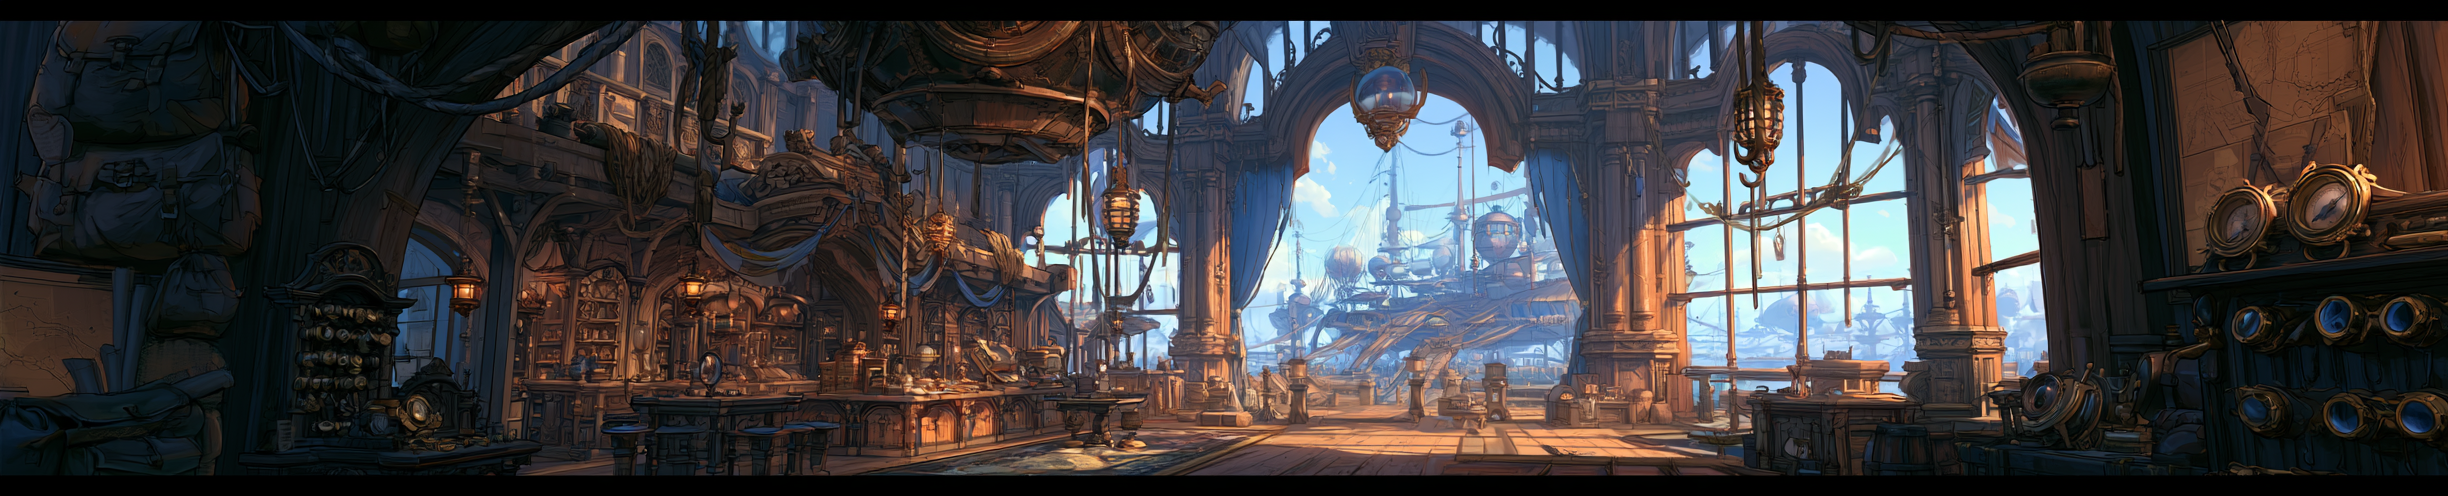
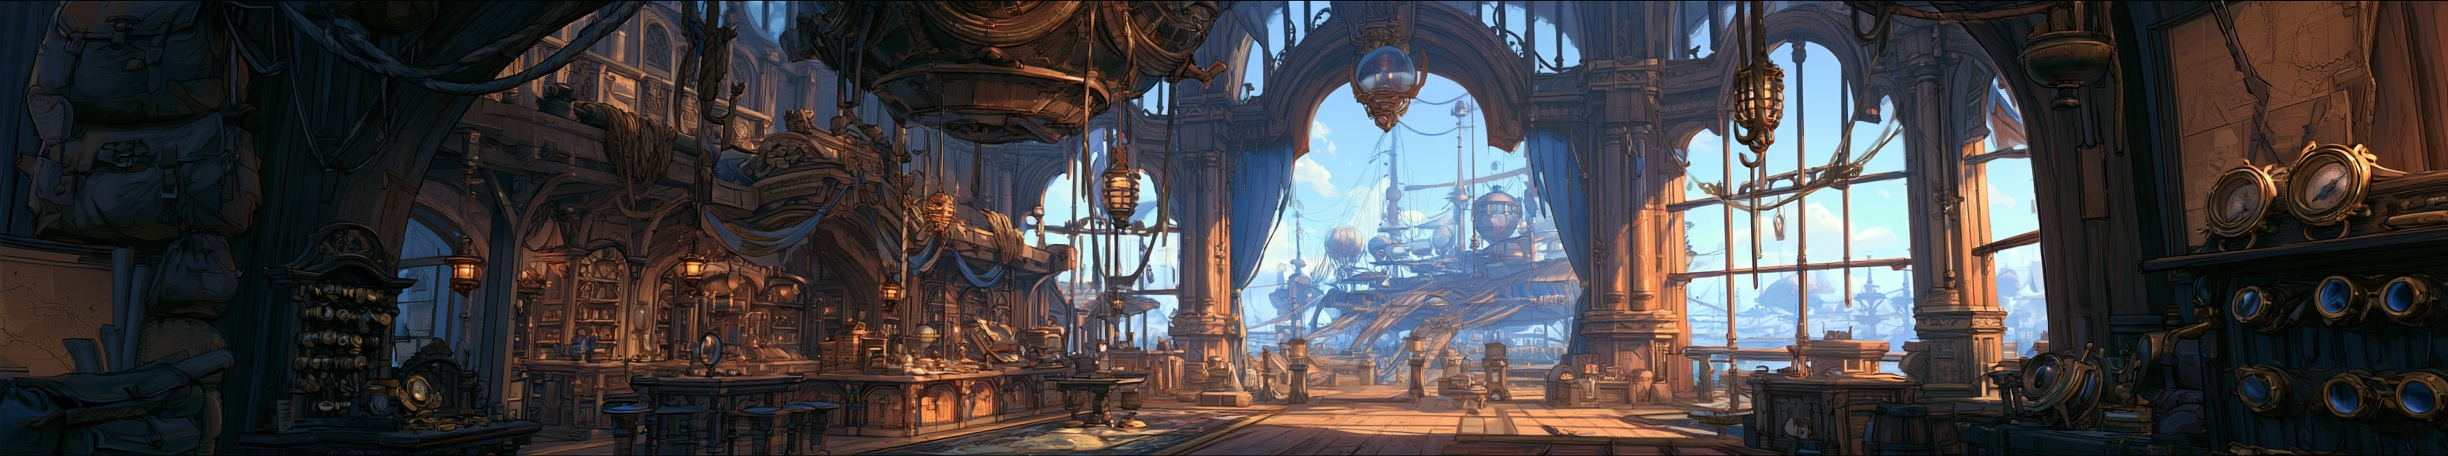
fix: 生成画像に焼き込まれた黒帯を検出・除去(購買部サムネイル黒帯の真因)
ユーザー提供のスクリーンショット(shop/groceries.html)を確認し、
実際のピクセルを調査したところ、CSSではなく画像ファイル自体の上下に
完全な黒色の帯が焼き込まれていることを確認した(Midjourney生成時か
書き出し時の不具合と推測)。過去2回「CSS的に発生し得ない」
「プレースホルダーの誤認」と判断してクローズしたのはどちらも誤りだった。

shop/dining/exploration配下の全画像を走査し、以下5点に全幅の黒帯を
検出、クロップして除去した:
- assets/images/shop/hero-airship-shop.jpg(上下20px)
- assets/images/shop/hero-alchemy-shop.jpg(上32px/下31px)
- assets/images/shop/hero-clock-accessories.jpg(上32px/下18px)
- assets/images/shop/hero-groceries.jpg(上20px/下19px)
- assets/images/exploration/thumb-airship-dock.jpg(上下25px)

他の画像は同じ手法(全幅の行が完全な黒かを走査)で黒帯なしを確認済み。
ROADMAP.mdの技術メモに、今後同種の不具合を疑う観点を追記した。

diff --git a/docs/ROADMAP.md b/docs/ROADMAP.md
@@ -43,20 +43,19 @@ evolveループはこの方針を毎サイクル遵守すること:
 
 ## バグ修正(最優先 — 通常機能より先に上から順に着手する)
 
-- [ ] (S) 購買部: `category-card__visual`(19種)のサムネイルに上下の黒い帯が出る。
-      経緯: 一度「background-size: coverは19種とも正しく設定済みでCSS的には
-      発生し得ない、指摘時点はまだ実画像反映前のプレースホルダーだったための
-      誤認」と判断してクローズしたが、実画像反映後の現在も再現することを
-      人間が確認済みのため再オープン。前回の判断は誤りだった。
-      新たな仮説: `category-card__visual` は高さ140px固定・カード幅は
-      280px前後で、box比率(約2:1)が画像の実比率(約5:1)よりずっと
-      正方形に近い。`background-size: cover` はこの場合、画像を高さ基準で
-      拡大するため画像の縦方向は一切トリミングされず全体がそのまま表示される
-      (ヒーロー側と違い、こちらは「クロップされすぎ」ではなく「画像の上下が
-      そのまま見えている」状態)。そのため、生成画像自体の上下(天井际・床際等)
-      が暗い構図であれば、CSSの指定に関わらず暗い帯として見える可能性がある。
-      ヒーロー側と同じaspect-ratio調整が有効かは未検証。実際の見た目
-      (スクリーンショット等)を確認してから対応方針を決める。
+- [x] (S) 購買部: サムネイル・ヒーロー画像の上下に黒い帯が出る。
+      真因: CSSではなく画像ファイル自体に黒帯が焼き込まれていた
+      (Midjourney生成時か書き出し時の不具合と推測)。ユーザー提供の
+      スクリーンショット(`shop/groceries.html`)を確認し、ピクセルを
+      直接調査して確定した。過去2回「CSS的に発生し得ない」
+      「プレースホルダーの誤認」と判断してクローズしたのはどちらも誤りだった。
+      全画像を走査し、以下5点に全幅の黒帯(15〜32px相当)を検出・除去した:
+      `assets/images/shop/hero-airship-shop.jpg`(上下20px)・
+      `hero-alchemy-shop.jpg`(上32px/下31px)・
+      `hero-clock-accessories.jpg`(上32px/下18px、2段階で検出)・
+      `hero-groceries.jpg`(上20px/下19px)・
+      `assets/images/exploration/thumb-airship-dock.jpg`(上下25px)。
+      他の画像は同じ手法で走査し黒帯なしを確認済み。
 
 ## 新規ページ提案(承認待ち — 承認されたら下の「ページ一覧」に移動する)
 
@@ -179,3 +178,7 @@ local-review が2階層違反を指摘した場合も、このタスク群につ
 - **ニュース区切り線の color-mix**: `color-mix(in srgb, var(--brass) 20%, transparent)` は sRGB でブラックと混合するため、インク背景上では実質不可視になる。ニュース項目が実装される際は `oklch` 色空間か 35〜40% に調整すること。
 - **エリアページのサムネイル**: 学院内探索の7エリア、購買部の一覧カード(category-card__visual、中央5種+エリア別14種)、学食・喫茶室のエリアタブカード(dining-venue-feature__visual)は全て実画像を反映済み(既存のhero画像を`background-image`で再利用)。CSSグラデーションはフォールバック背景として残置。
 - **インタラクティブ要素の方針**: JS は src/ 以下に純粋な関数として実装し、HTML から script タグで読み込む。DOM 操作のみのスクリプトは pages/ に置かない。
+- **画像ファイルの黒帯不具合**: 一部の生成画像に、CSSではなくファイル自体に
+  焼き込まれた黒帯(letterbox)が混入していたことがある(2026-07-26発覚)。
+  新しい画像アセットが届いた際、見た目に違和感があれば「CSS側の問題」と
+  即断せず、画像そのもの(上下端が完全な黒でないか)も疑うこと。
